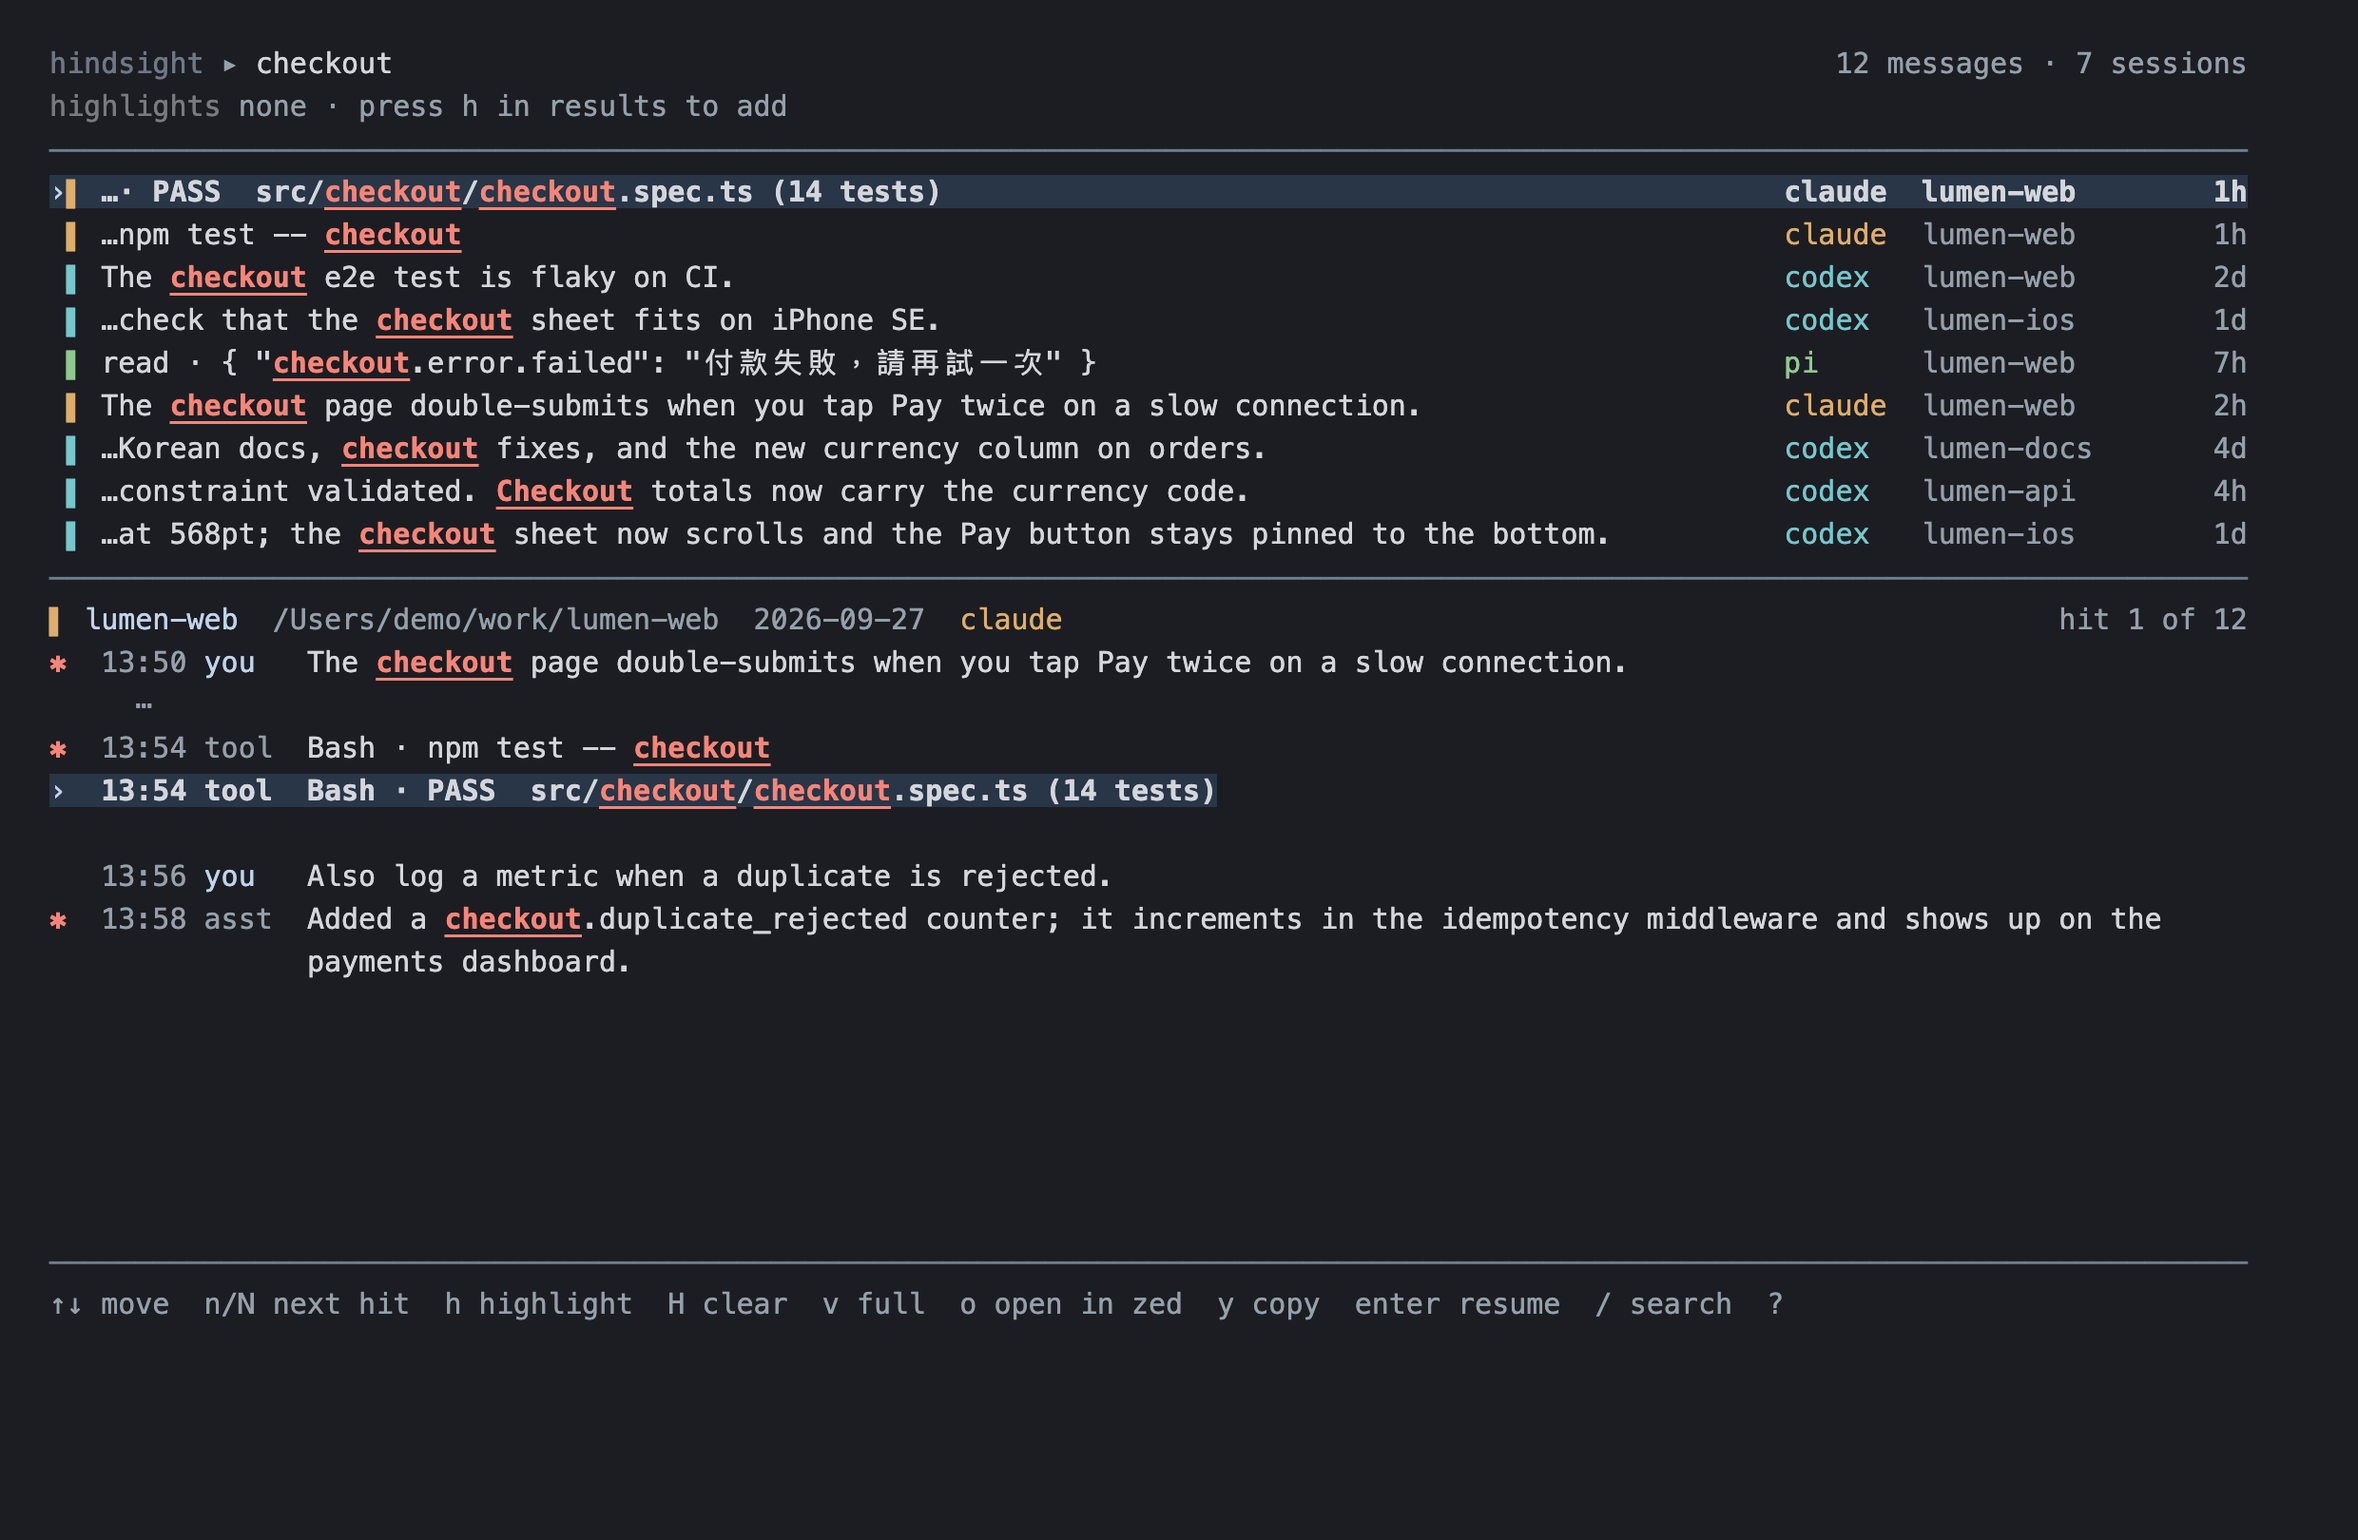
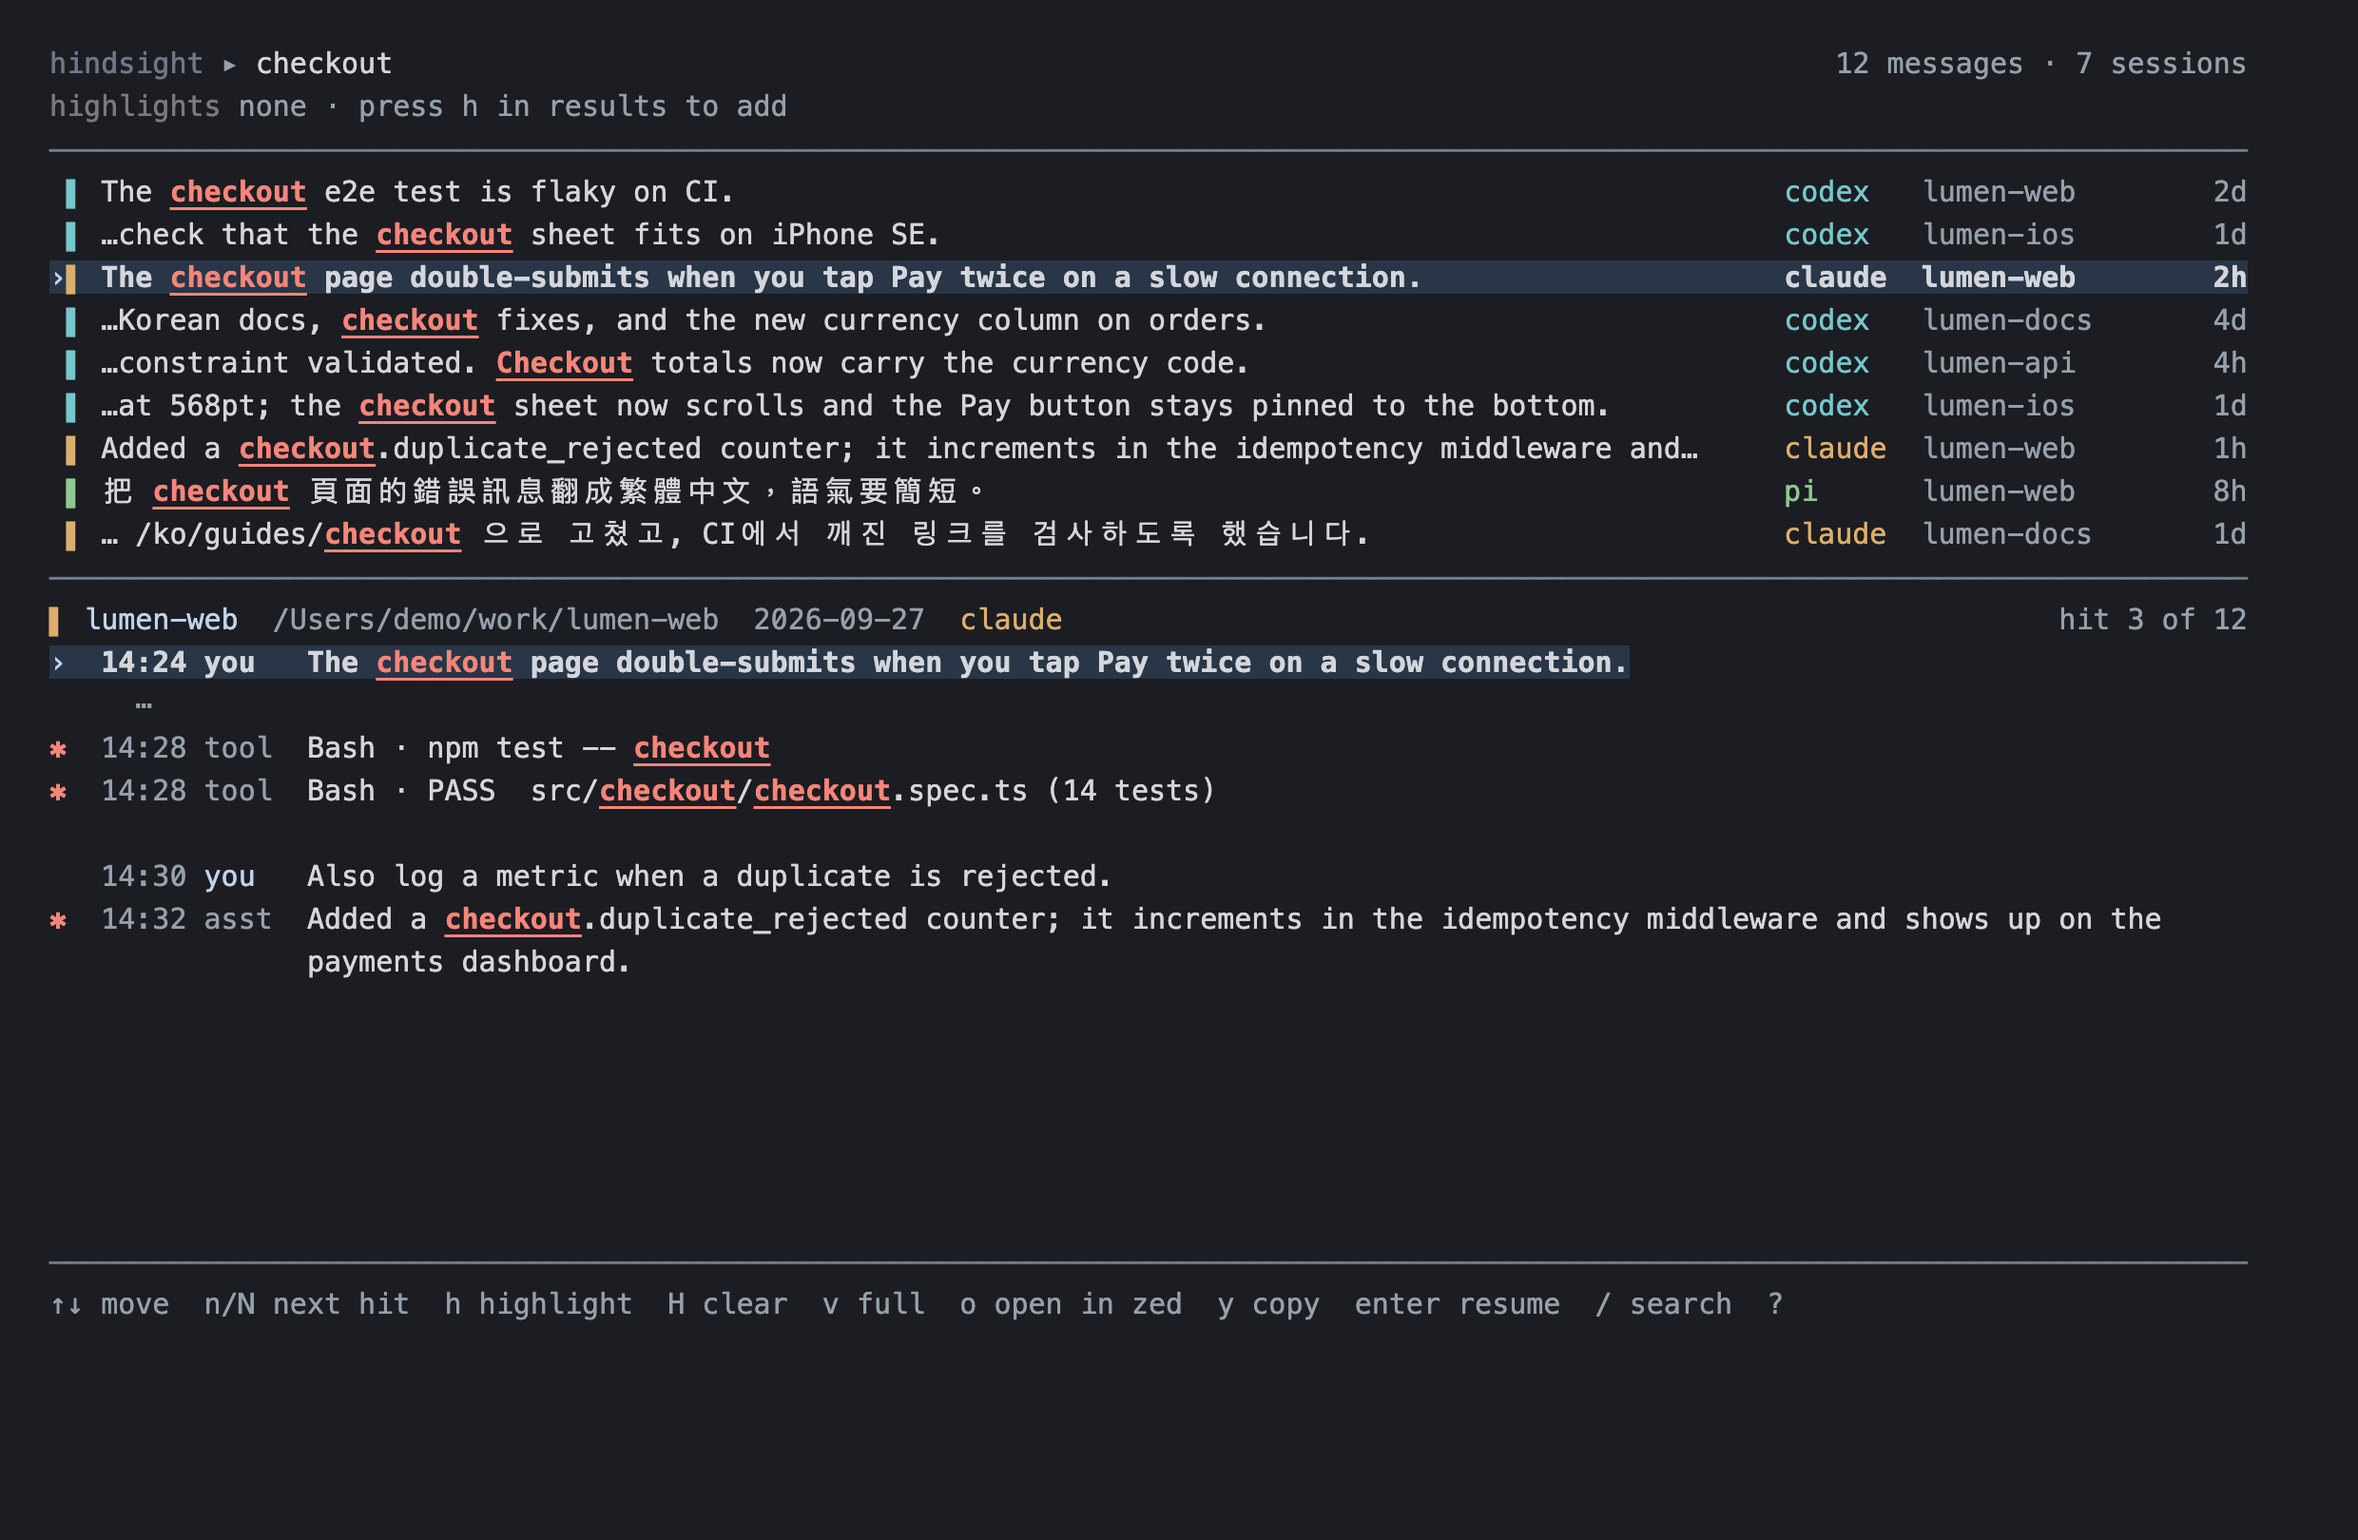
test: conversation-before-tool ranking checks; refresh screenshots
- E2E: conversation hits precede tool rows, tool-only matches still return,
  n/N still visits tool hits (captures renamed next/prev: n.txt and N.txt
  are the same file on case-insensitive macOS).
- README hero now selects a fuller session.

Changed region(s): [[0.0, 0.0926, 0.9625, 0.3704], [0.0, 0.4012, 0.7141, 0.5247]]

diff --git a/test/e2e-report.md b/test/e2e-report.md
@@ -1,15 +1,18 @@
 # E2E report
 
-Run: 2026-09-27 15:16:28 UTC
+Run: 2026-09-27 16:25:10 UTC
 
 | Check | Result | Time | Details |
 |---|---:|---:|---|
-| make build (sqlite_fts5) | PASS | 2s | built ./hindsight |
+| make build (sqlite_fts5) | PASS | 0s | built ./hindsight |
 | Index Claude/Codex/Pi real-format fixtures | PASS | 0s | claude: 5 messages codex: 5 messages pi: 5 messages 3 files, 3 changed, 0 skipped |
 | No-op incremental scan; transcript bytes unchanged | PASS | 0s | claude: 5 messages codex: 5 messages pi: 5 messages 3 files, 0 changed, 0 skipped |
 | Incremental sync adds new file | PASS | 0s | claude: 11 messages codex: 5 messages pi: 5 messages 4 files, 1 changed, 0 skipped |
 | Changed source is replaced, not duplicated | PASS | 0s | claude: 11 messages codex: 5 messages pi: 5 messages 4 files, 1 changed, 0 skipped |
 | Deleted source is removed from index | PASS | 0s | claude: 5 messages codex: 5 messages pi: 5 messages 3 files, 0 changed, 0 skipped |
+| Tool-order fixture indexed | PASS | 0s | claude: 9 messages codex: 5 messages pi: 5 messages 4 files, 1 changed, 0 skipped |
+| Conversation hits precede matching tool row in JSON order | PASS | 0s | roles=['asst', 'user', 'tool'] |
+| Tool-only match remains searchable | PASS | 0s |  |
 | query: snapshot (contains) | PASS | 0s |  |
 | query: recoverytoken (contains) | PASS | 0s |  |
 | query: resum (contains) | PASS | 0s |  |
@@ -26,8 +29,8 @@ Run: 2026-09-27 15:16:28 UTC
 | query: 日本語 (contains) | PASS | 0s |  |
 | query: 한국어 (contains) | PASS | 0s |  |
 | query: --flag (empty) | PASS | 0s |  |
-| CLI --version | PASS | 0s | 0.1.0 |
-| Empty query lists recent messages as JSONL | PASS | 0s | 3 rows |
+| CLI --version | PASS | 0s | v0.1.1-2-g6e235c3-dirty |
+| Empty query lists recent messages as JSONL | PASS | 0s | 4 rows |
 | Malformed quote query does not crash | PASS | 0s |  |
 | JSONL parse/schema: all required fields | PASS | 0s |        6 rows |
 | JSON harness filter claude | PASS | 0s |  |
@@ -45,12 +48,13 @@ Run: 2026-09-27 15:16:28 UTC
 | Resume pi stub argv + cwd | PASS | 0s | pi\|<fixture>/home/work/demo\|--session <fixture>/home/.pi/agent/sessions/-work-demo/33333333-3333-4333-8333-333333333333.jsonl |
 | Editor stub launch + project directory | PASS | 0s | zed\|<repo>\|<fixture>/home/work/demo |
 | Editor launch leaves TUI alive | PASS | 0s |  |
+| TUI n/N visits matching tool hit | PASS | 0s | both directions retain the tool hit in transcript |
 | Hit-list truncation: ellipsis + whole Latin words | PASS | 0s | 3 hit rows end their clipped snippet in ellipsis; Latin token intact or omitted |
-| Performance: 2k sessions / 200k messages (20 varied queries) | PASS | 0s | index=5668.55ms queries=20 median=23.13ms p95=28.99ms slowest=[{"query":"\"synthetic message\"","ms":29.4,"timing":"timing startup=1.07ms\ntiming sync_walk=0.80ms\ntiming sync_stat=2.72ms\ntiming sync_sources=1.10ms\ntiming sync_changes=0.11ms\ntiming sync_counts=0.28ms\ntiming sync=5.04ms\ntiming query=14.22ms\ntiming snippet=0.14ms\ntiming render=0.26ms"},{"query":"-neutral","ms":28.99,"timing":"timing startup=0.89ms\ntiming sync_walk=0.85ms\ntiming sync_stat=2.76ms\ntiming sync_sources=1.11ms\ntiming sync_changes=0.11ms\ntiming sync_counts=0.27ms\ntiming sync=5.12ms\ntiming query=13.89ms\ntiming snippet=0.11ms\ntiming render=0.25ms"},{"query":"\"neutral synthetic\"","ms":28.84,"timing":"timing startup=0.95ms\ntiming sync_walk=0.78ms\ntiming sync_stat=2.43ms\ntiming sync_sources=1.14ms\ntiming sync_changes=0.11ms\ntiming sync_counts=0.28ms\ntiming sync=4.75ms\ntiming query=14.02ms\ntiming snippet=0.13ms\ntiming render=0.25ms"}] |
+| Performance: 2k sessions / 200k messages (20 varied queries) | PASS | 0s | index=5394.54ms queries=20 median=23.55ms p95=30.78ms slowest=[{"query":"perfneed","ms":48.07,"timing":"timing startup=17.26ms\ntiming sync_walk=0.79ms\ntiming sync_stat=2.66ms\ntiming sync_sources=1.17ms\ntiming sync_changes=0.10ms\ntiming sync_counts=0.29ms\ntiming sync=5.01ms\ntiming query=5.49ms\ntiming snippet=0.48ms\ntiming render=0.31ms"},{"query":"perfneedle","ms":30.78,"timing":"timing startup=3.84ms\ntiming sync_walk=0.74ms\ntiming sync_stat=2.61ms\ntiming sync_sources=1.13ms\ntiming sync_changes=0.11ms\ntiming sync_counts=0.27ms\ntiming sync=4.86ms\ntiming query=5.26ms\ntiming snippet=0.46ms\ntiming render=0.27ms"},{"query":"\"synthetic message\"","ms":29.03,"timing":"timing startup=0.86ms\ntiming sync_walk=0.77ms\ntiming sync_stat=2.41ms\ntiming sync_sources=1.13ms\ntiming sync_changes=0.11ms\ntiming sync_counts=0.25ms\ntiming sync=4.70ms\ntiming query=14.71ms\ntiming snippet=0.14ms\ntiming render=0.26ms"}] |
 | Search semantics: common term is ranked by message time, not insertion order | PASS | 0s | 300 rows; harnesses=['claude', 'codex']; newest=2026-10-01T10:00:01Z |
-| Append sync: next CLI query finds new line; only tail parsed | PASS | 0s | sync_changes=0.32ms; claude: 2 messages codex: 200001 messages pi: 1 messages 2002 files, 0 changed, 0 skipped |
-| Partial final line is withheld until newline | PASS | 0s | timing startup=0.93ms timing sync_walk=0.74ms timing sync_stat=2.53ms timing sync_sources=1.13ms timing sync_changes=0.12ms timing sync_counts=0.29ms timing sync=4.84ms timing query=1.41ms timing snippet=0.00ms timing render=0.00ms |
+| Append sync: next CLI query finds new line; only tail parsed | PASS | 0s | sync_changes=0.29ms; claude: 2 messages codex: 200001 messages pi: 1 messages 2002 files, 0 changed, 0 skipped |
+| Partial final line is withheld until newline | PASS | 0s | timing startup=0.96ms timing sync_walk=0.77ms timing sync_stat=2.62ms timing sync_sources=1.19ms timing sync_changes=0.12ms timing sync_counts=0.29ms timing sync=5.02ms timing query=1.55ms timing snippet=0.00ms timing render=0.00ms |
 | Partial line is re-read and indexed when completed | PASS | 0s | claude: 2 messages codex: 200002 messages pi: 1 messages 2002 files, 0 changed, 0 skipped |
 | Real stores: read-only independent lower-bound sanity | SKIP | 0s | Set HINDSIGHT_E2E_REAL=1 to opt in to reading this machine’s ~/.claude, ~/.codex, and ~/.pi stores. |
 
-**Summary:** 47 PASS, 0 FAIL.
+**Summary:** 51 PASS, 0 FAIL.

diff --git a/test/FAILURE_MODES.md b/test/FAILURE_MODES.md
@@ -30,7 +30,7 @@ Use a fresh synthetic `HOME` from `./test/fixture.sh` for every run. Run all com
 - [ ] Empty query and query containing only negations do not issue invalid FTS MATCH; they show the latest message of each recent session.
 - [ ] All SPEC Expected behavior cases pass: `snapshot` = `SNAPSHOT`; `resum` matches `resuming`; `sume` does not; `"tea black"` does not match `black tea`; `naive` matches `naïve`; `json_extract`, `low-water`, `S3`, and `cjk.c` match; `魚池` matches inside `日月潭紅茶產於南投縣魚池鄉`; `南投魚池` does not; single-character `茶` matches `紅茶`.
 - [ ] Chinese, Japanese, Korean, and English searches work over transcript message text, not only title/excerpt; CJK two-cell characters do not break snippet boundaries or highlight positions.
-- [ ] Results are one row per matching message, ordered by BM25 then newest-first for ties, capped at 300, and do not repeat a session row in place of message-level hits.
+- [ ] Results are one row per matching message, ordered by conversation (user/assistant) hits before tool hits, then relevance/newness; common terms span files and the newest match is retained, capped at 300. Tool-only matches remain searchable.
 - [ ] `--harness claude|codex|pi` and Tab/Shift-Tab filter consistently, including empty results and recent-session mode.
 - [ ] Snippets include surrounding context, start roughly 12 cells before the first hit, do not cut Latin words, use `…` when clipped, and mark only actual hit text in red+underline.
 
